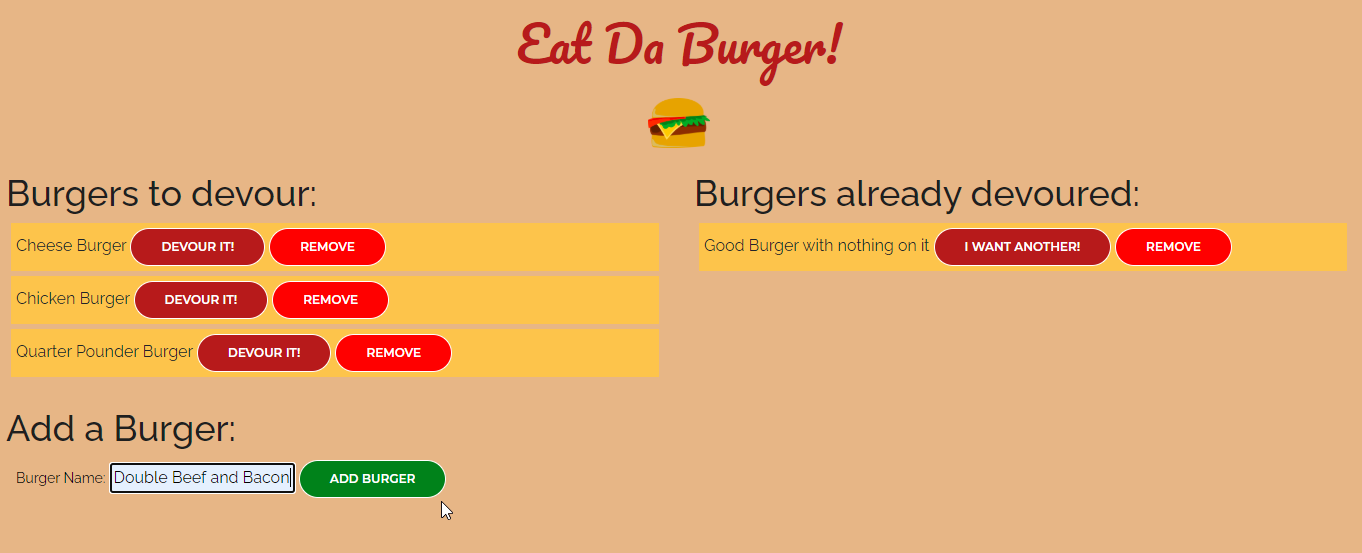
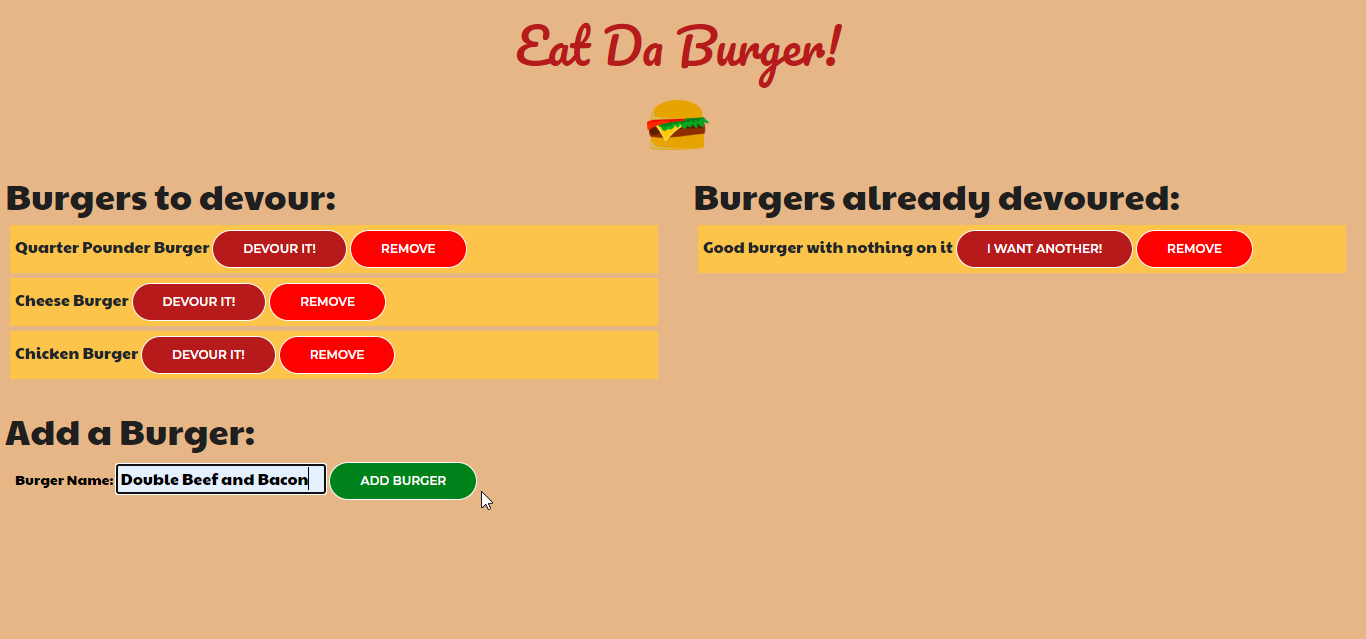
Updated styling and cleaned up variables.

Changed region(s): [[0.0, 0.1537, 1.0, 0.7993], [0.0, 0.83, 0.3392, 0.953], [0.37, 0.0307, 0.6167, 0.1537]]

diff --git a/controllers/burgers_controller.js b/controllers/burgers_controller.js
@@ -15,46 +15,45 @@ router.get("/burgers", function(request, response) {
 });
 
 // Add a burger defaulted to devoured = false
-router.post("/api/burgers", function(req, res) {
+router.post("/api/burgers", function(request, response) {
     burger.create([
         "burger_name", "devoured"
     ], [
-        req.body.name, false
+        request.body.name, false
     ], function(result) {
-        // Send back the ID of the new quote
-        res.json({ id: result.insertId });
+        // Send back the ID of the new burger
+        response.json({ id: result.insertId });
     });
 });
 
 // Update the burger devoured status
-router.put("/api/burgers/:id", function(req, res) {
-    let condition = "id = " + req.params.id;
+router.put("/api/burgers/:id", function(request, response) {
+    let condition = "id = " + request.params.id;
     console.log("condition", condition);
     burger.update({
-            devoured: req.body.devoured
+            devoured: request.body.devoured
         },
         condition,
         function(result) {
             if (result.changedRows === 0) {
                 // If no rows were changed, then the ID must not exist, so 404
-                return res.status(404).end();
+                return response.status(404).end();
             }
-            res.status(200).end();
+            response.status(200).end();
 
         }
     );
 });
 
 // Delete a burger
-router.delete("/api/burgers/:id", function(req, res) {
-    let condition = "id = " + req.params.id;
-
+router.delete("/api/burgers/:id", function(request, response) {
+    let condition = "id = " + request.params.id;
     burger.delete(condition, function(result) {
         if (result.affectedRows == 0) {
             // If no rows were changed, then the ID must not exist, so 404
-            return res.status(404).end();
+            return response.status(404).end();
         } else {
-            res.status(200).end();
+            response.status(200).end();
         }
     });
 });

diff --git a/config/orm.js b/config/orm.js
@@ -1,6 +1,6 @@
 /*jshint esversion: 6 */
 
-// Sample js retrieved from Week 13 MVC Example.
+// Sample ORM.js retrieved from Week 13 MVC Example.
 
 // Import MySQL connection.
 const connection = require("../config/connection.js");
@@ -8,18 +8,15 @@ const connection = require("../config/connection.js");
 // Helper function for SQL syntax
 function printQuestionMarks(num) {
     let arr = [];
-
     for (let i = 0; i < num; i++) {
         arr.push("?");
     }
-
     return arr.toString();
 }
 
 // Helper function to convert object key/value pairs to SQL syntax
 function objToSql(ob) {
     let arr = [];
-
     // loop through the keys and push the key/value as a string int arr
     for (let key in ob) {
         let value = ob[key];
@@ -32,7 +29,6 @@ function objToSql(ob) {
             arr.push(key + "=" + value);
         }
     }
-
     // translate array of strings to a single comma-separated string
     return arr.toString();
 }
@@ -52,16 +48,13 @@ const orm = {
 
     create: function(table, cols, vals, callback) {
         let queryString = "INSERT INTO " + table;
-
         queryString += " (";
         queryString += cols.toString();
         queryString += ") ";
         queryString += "VALUES (";
         queryString += printQuestionMarks(vals.length);
         queryString += ") ";
-
         console.log(queryString);
-
         connection.query(queryString, vals, function(err, result) {
             if (err) {
                 throw err;

diff --git a/public/assets/js/script.js b/public/assets/js/script.js
@@ -2,14 +2,14 @@
 
 // Make sure we wait to attach our handlers until the DOM is fully loaded.
 $(function() {
+
+    // Moving the burgers across the two columns
     $(".change-devoured").on("click", function(event) {
         let id = $(this).data("id");
         let newDevoured = !($(this).data("devoured"));
-
         let newDevouredState = {
             devoured: newDevoured
         };
-
         // Send the PUT request.
         $.ajax("/api/burgers/" + id, {
             type: "PUT",
@@ -23,6 +23,7 @@ $(function() {
         );
     });
 
+    // Add a burger
     $(".create-form").on("submit", function(event) {
         // Make sure to preventDefault on a submit event.
         event.preventDefault();
@@ -30,7 +31,6 @@ $(function() {
         let newBurger = {
             name: $("#ca").val().trim()
         };
-
         if (newBurger.name == "") {
             alert("Please enter a burger name!");
         } else {
@@ -48,9 +48,9 @@ $(function() {
         }
     });
 
+    // Remove a burger
     $(".delete-burger").on("click", function(event) {
         let id = $(this).data("id");
-
         // Send the DELETE request.
         $.ajax("/api/burgers/" + id, {
             type: "DELETE"

diff --git a/models/burger.js b/models/burger.js
@@ -5,27 +5,27 @@ const orm = require("../config/orm.js");
 const burger = {
 
     selectAll: function(callback) {
-        orm.selectAll("burgers", function(res) {
-            callback(res);
+        orm.selectAll("burgers", function(response) {
+            callback(response);
         });
     },
 
     // The variables cols and vals are arrays.
-    create: function(cols, vals, cb) {
-        orm.create("burgers", cols, vals, function(res) {
-            cb(res);
+    create: function(cols, vals, callback) {
+        orm.create("burgers", cols, vals, function(response) {
+            callback(response);
         });
     },
 
     update: function(objColVals, condition, callback) {
-        orm.update("burgers", objColVals, condition, function(res) {
-            callback(res);
+        orm.update("burgers", objColVals, condition, function(response) {
+            callback(response);
         });
     },
 
-    delete: function(condition, cb) {
-        orm.delete("burgers", condition, function(res) {
-            cb(res);
+    delete: function(condition, callback) {
+        orm.delete("burgers", condition, function(response) {
+            callback(response);
         });
     }
 

diff --git a/public/assets/CSS/style.css b/public/assets/CSS/style.css
@@ -1,5 +1,5 @@
 @import url("https://fonts.googleapis.com/css?family=Montserrat:100,100i,200,200i,300,300i,400,400i,500,500i,600,600i,700,700i,800|Pacifico|Paytone+One&display=swap");
-@import url("https://fonts.googleapis.com/css?family=Raleway:300,400,500,600,700,800,900&display=swap");
+@import url("https://fonts.googleapis.com/css?family=Paytone One:300,400,500,600,700,800,900&display=swap");
 
 /* line 1, ../../Arafath/CL/December/229. Restaurant (Burger)/HTML/scss/_extend.scss */
 
@@ -37,7 +37,7 @@
 /* line 4, ../../Arafath/CL/December/229. Restaurant (Burger)/HTML/scss/theme-default.scss */
 
 body {
-    font-family: 'Raleway', sans-serif;
+    font-family: 'Paytone One', sans-serif;
     font-weight: normal;
     font-style: normal;
     background-color: burlywood;
@@ -111,7 +111,7 @@ h2,
 h3,
 h4,
 h5 {
-    font-family: 'Raleway', sans-serif;
+    font-family: 'Paytone One', sans-serif;
     color: #1F1F1F;
 }
 
@@ -151,7 +151,7 @@ p {
     line-height: 28px;
     color: #4D4D4D;
     margin-bottom: 13px;
-    font-family: 'Raleway', sans-serif;
+    font-family: 'Paytone One', sans-serif;
 }
 
 
